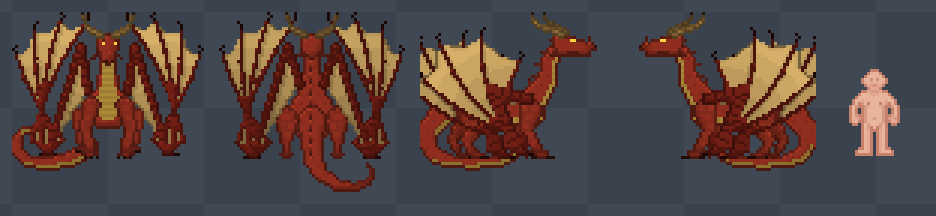
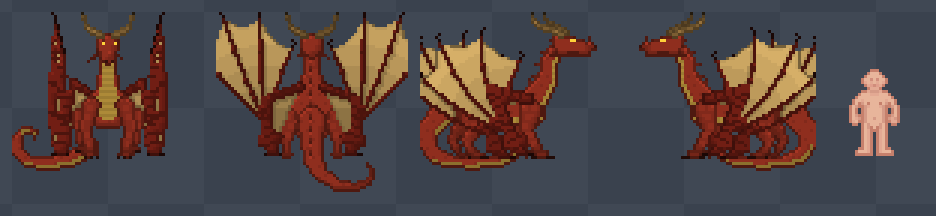
Match SkyWing front and back wing views to the folded references
- Front view: folded wings are narrow upright bundles just outside the shoulders, rising from
  the wrist on the ground to about head height with claws stepped along the top and thin
  slivers of membrane between the fingers.
- Back view: wings open into a wide V from wrists resting beside the hind legs; the shortest
  finger stands upright next to the body and the longer ones fan out to the top corners with
  membrane across the whole fan, plus membrane between the arm and the body.

Changed region(s): [[0.0, 0.0556, 0.4338, 0.75]]

diff --git a/Tools/_WoF/skywing_sprites.js b/Tools/_WoF/skywing_sprites.js
@@ -343,11 +343,14 @@ function wingShape(spec, dx = 0, dy = 0) {
 // Side view: the hand rests just behind the near front paw; the elbow sits on top of the back.
 const WING_E = { sh: [36, 29], elbow: [24, 26], palm: [34, 46.8], fan: [[76, 32], [66, 41], [57, 46], [49, 42]] };
 // Front/back views (left wing; the right one is mirrored): the hand rests outside the legs.
-// The elbow stands up beside the neck and the forearm runs down the inner side to the hand, with membrane
-// filling the arm triangle; the fingers fan out on the outer side, each visible from fingertip to palm.
-const WING_S = { bend: 6, spread: 6, armWeb: true, knuckle: 3.8, armRadii: [1.7, 1.5, 1.3], sh: [25.5, 27], elbow: [23, 11], palm: [12, 46.4], tips: [[18.5, 1], [14, 2.5], [9.5, 6], [6, 12.5]] };
-// Back view: the same fold seen from behind, with the hands on the ground just outside the hind legs.
-const WING_N = { bend: 6, spread: 6, armWeb: true, knuckle: 3.8, armRadii: [1.7, 1.5, 1.3], sh: [28, 24], elbow: [24, 11], palm: [12.5, 47.6], tips: [[19.5, 1], [15, 2.5], [10.5, 6], [7, 12.5]] };
+// Front view: the folded wings are seen almost edge-on, as narrow upright bundles just outside the shoulders and
+// front legs. The fingers rise nearly straight from the wrist on the ground to about head height, claws stepped
+// one above the other, with thin slivers of membrane between them.
+const WING_S = { bend: 3, spread: 2, armWeb: true, knuckle: 1.8, armRadii: [1.6, 1.4, 1.2], sh: [25.5, 27], elbow: [20.5, 23], palm: [16.5, 46.4], tips: [[12.5, 3], [14.8, 6.5], [17.1, 10], [19.4, 14]] };
+// Back view: the wings open into a wide V. The wrist rests on the ground right beside the hind leg, the shortest
+// finger stands nearly straight up next to the body, and the longer fingers fan outward to the top corners with
+// membrane across the whole fan. A short arm runs from the shoulder out to the elbow and down to the wrist.
+const WING_N = { bend: 2, spread: 8, armWeb: true, knuckle: 3, armRadii: [1.7, 1.5, 1.3], sh: [28, 25], elbow: [17, 29], palm: [19, 46.5], tips: [[18.5, 11], [12, 3], [5.5, 1.5], [1, 9]] };
 
 // Everything that stands in front of the wings in the front view.
 function frontOccluder() {
